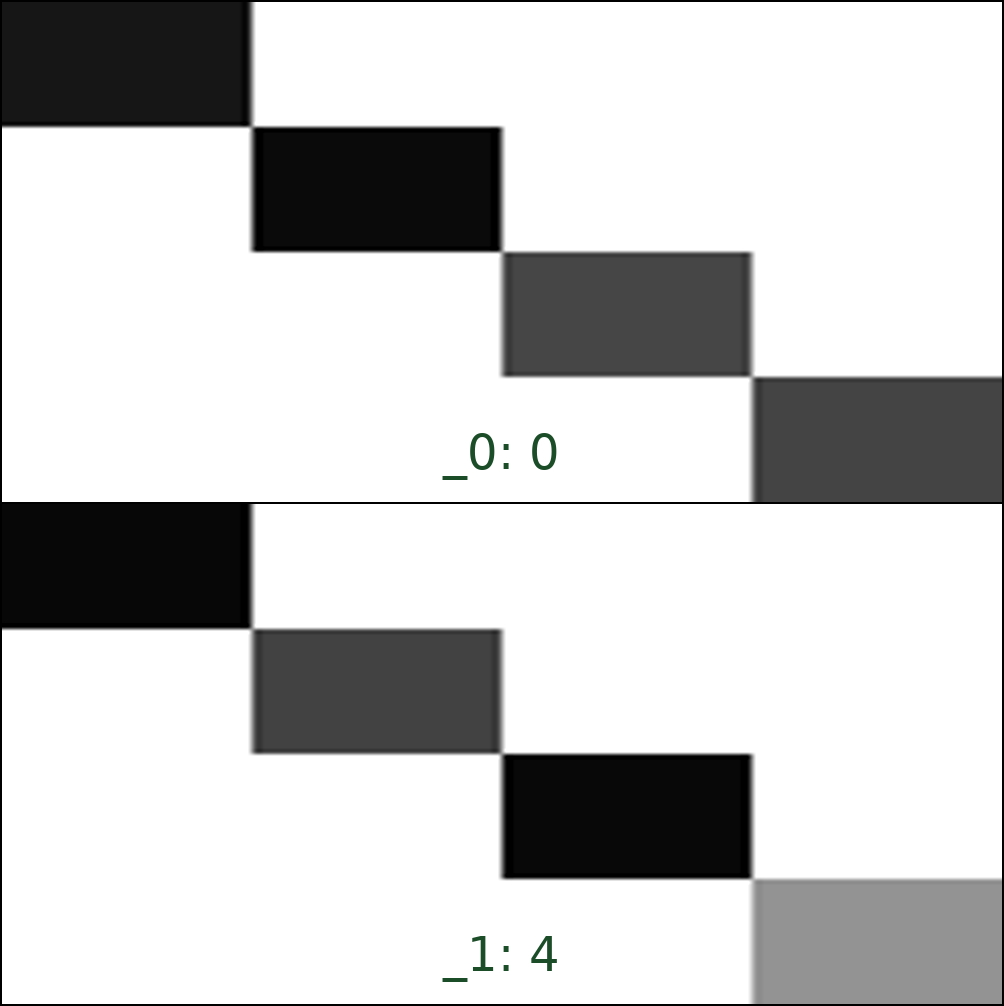
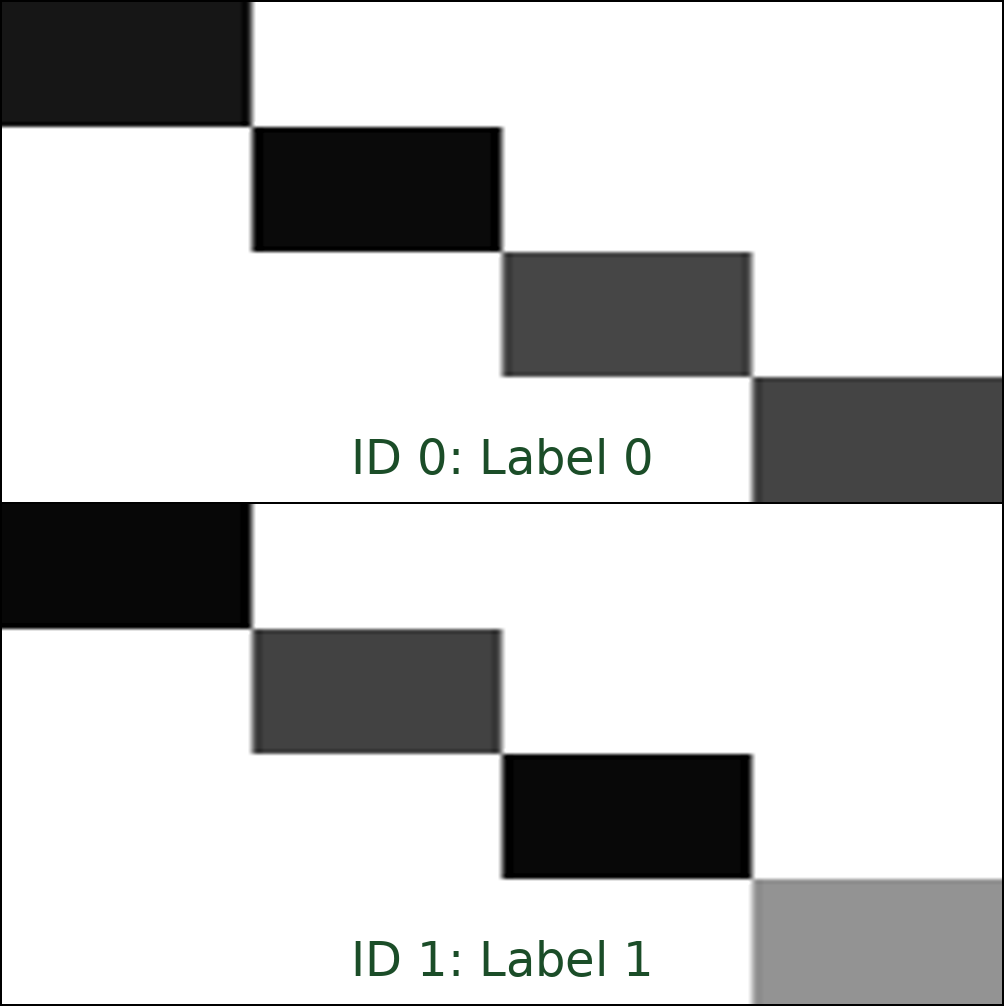
switch to new IDs

Changed region(s): [[0.3396, 0.4314, 0.6484, 0.493], [0.4323, 0.9245, 0.6484, 0.9861], [0.3396, 0.9245, 0.4323, 0.9861]]

diff --git a/hi-ml-cpath/testhisto/testhisto/utils/test_montage.py b/hi-ml-cpath/testhisto/testhisto/utils/test_montage.py
@@ -27,7 +27,7 @@ from testhisto.utils.utils_testhisto import assert_binary_files_match, full_ml_t
 
 
 # Set this to True to update all stored images in the test_data folder.
-UPDATE_STORED_RESULTS = False
+UPDATE_STORED_RESULTS = True
 
 
 def expected_results_folder() -> Path:
@@ -52,6 +52,18 @@ def _create_slides_images(tmp_path: Path, n_slides: int = 6) -> MockPandaSlidesG
     )
     wsi_generator.generate_mock_histo_data()
     print(f"Generated images in {tmp_path}")
+    return wsi_generator
+
+
+def _create_panda_dataset(tmp_path: Path, n_slides: int = 6) -> SlidesDataset:
+    _create_slides_images(tmp_path, n_slides)
+    usecols = [PandaDataset.SLIDE_ID_COLUMN, PandaDataset.MASK_COLUMN]
+    dataset = PandaDataset(root=tmp_path, dataframe_kwargs={"usecols": usecols + list(PandaDataset.METADATA_COLUMNS)})
+    return dataset
+
+
+def _create_slides_dataset(tmp_path: Path, n_slides: int = 6) -> SlidesDataset:
+    wsi_generator = _create_slides_images(tmp_path, n_slides)
     # Create a CSV file with the 3 required columns for montage creation. Mask is optional.
     metadata = {
         SlideKey.SLIDE_ID: [f"ID {i}" for i in range(n_slides)],
@@ -61,13 +73,7 @@ def _create_slides_images(tmp_path: Path, n_slides: int = 6) -> MockPandaSlidesG
     df = pd.DataFrame(data=metadata)
     csv_filename = tmp_path / SlidesDataset.DEFAULT_CSV_FILENAME
     df.to_csv(csv_filename, index=False)
-    return wsi_generator
-
-
-def _create_slides_dataset(tmp_path: Path, n_slides: int = 6) -> SlidesDataset:
-    _create_slides_images(tmp_path, n_slides)
-    usecols = [PandaDataset.SLIDE_ID_COLUMN, PandaDataset.MASK_COLUMN]
-    dataset = PandaDataset(root=tmp_path, dataframe_kwargs={"usecols": usecols + list(PandaDataset.METADATA_COLUMNS)})
+    dataset = SlidesDataset(root=tmp_path)
     return dataset
 
 
@@ -113,28 +119,17 @@ def test_montage_from_dir(tmp_path: Path) -> None:
     assert_binary_files_match(montage_path, expected_file)
 
 
-def test_montage_from_dataset(tmp_path: Path) -> None:
+@pytest.mark.parametrize("use_masks", [True, False])
+def test_montage_from_dataset(tmp_path: Path, use_masks: bool) -> None:
     """Test if a montage can be generated from a slides dataset."""
-    # Create a montage from the dataset, including thumbnails for the masks
-    dataset = dataset_to_records(_create_slides_dataset(tmp_path))
-    file_name1 = "montage_with_masks.png"
-    montage_with_masks = tmp_path / file_name1
-    make_montage(dataset, out_path=montage_with_masks, width=1000)
-    assert montage_with_masks.is_file()
-    expected_file = expected_results_folder() / file_name1
+    dataset = dataset_to_records(_create_panda_dataset(tmp_path))
+    montage = tmp_path / "montage.png"
+    make_montage(dataset, out_path=montage, width=1000, num_parallel=1, masks=use_masks)
+    assert montage.is_file()
+    expected_file = expected_results_folder() / ("montage_with_masks.png" if use_masks else "montage_without_masks.png")
     if UPDATE_STORED_RESULTS:
-        shutil.copyfile(montage_with_masks, expected_file)
-    assert_binary_files_match(montage_with_masks, expected_file)
-    # Create a montage from the dataset, this time only including the slides
-    file_name2 = "montage_without_masks.png"
-    montage_without_masks = tmp_path / file_name2
-    # Use a pool size of 1 here to test that codepath too
-    make_montage(dataset, out_path=montage_without_masks, width=1000, num_parallel=1, masks=False)
-    assert montage_without_masks.is_file()
-    expected_file = expected_results_folder() / file_name2
-    if UPDATE_STORED_RESULTS:
-        shutil.copyfile(montage_without_masks, expected_file)
-    assert_binary_files_match(montage_without_masks, expected_file)
+        shutil.copyfile(montage, expected_file)
+    assert_binary_files_match(montage, expected_file)
 
 
 def test_restrict_dataset() -> None:
@@ -183,7 +178,7 @@ def test_montage_included_and_excluded1(tmp_path: Path, exclude_items: bool) -> 
     out_path.mkdir(exist_ok=True)
     montage_from_included_and_excluded_slides(
         dataset,
-        items=["_0", "_1"],
+        items=["ID 0", "ID 1"],
         exclude_items=exclude_items,
         output_path=out_path,
         width=1000
@@ -205,7 +200,7 @@ def test_montage_included_and_excluded2(tmp_path: Path) -> None:
         with mock.patch("health_cpath.utils.montage.make_montage") as mock_montage:
             montage_file = montage_from_included_and_excluded_slides(
                 dataset,
-                items=["_0", "_1"],
+                items=["ID 0", "ID 1"],
                 exclude_items=exclude_items,
                 output_path=out_path,
                 width=1000
@@ -216,9 +211,9 @@ def test_montage_included_and_excluded2(tmp_path: Path) -> None:
             assert isinstance(records, List)
             slide_ids = sorted([d[SlideKey.SLIDE_ID] for d in records])
             if exclude_items:
-                assert slide_ids == ["_2", "_3", "_4", "_5"]
+                assert slide_ids == ["ID 2", "ID 3", "ID 4", "ID 5"]
             else:
-                assert slide_ids == ["_0", "_1"]
+                assert slide_ids == ["ID 0", "ID 1"]
 
 
 def test_dataset_from_folder_unique(tmp_path: Path) -> None:
